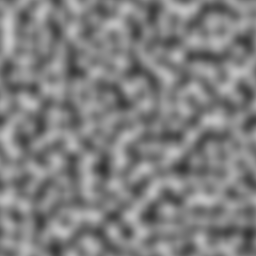
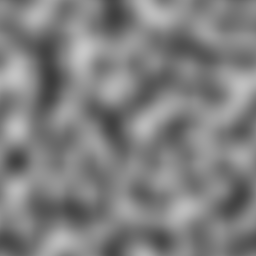
update

diff --git a/src/consts/noiseMarble.ts b/src/consts/noiseMarble.ts
@@ -1,8 +1,8 @@
 // https://polyhaven.com/
 const hdrUrl = "./static/hdrs/orbita.hdr";
 
-const heightMapUrl = "./static/noisemaps/1.jpeg";
-const displacementMapUrl = "./static/noisemaps/5.jpeg";
+// const heightMapUrl = "./static/noisemaps/1.jpeg";
+// const displacementMapUrl = "./static/noisemaps/5.jpeg";
 
 // http://kitfox.com/projects/perlinNoiseMaker/
 // const heightMapUrl = "./static/noisemaps/2.png";
@@ -13,5 +13,11 @@ const displacementMapUrl = "./static/noisemaps/5.jpeg";
 
 // const heightMapUrl = "./static/noisemaps/7.png";
 // const displacementMapUrl = "./static/noisemaps/5.jpeg";
+
+// const heightMapUrl = "./static/noisemaps/8.png";
+// const displacementMapUrl = "./static/noisemaps/5.jpeg";
+
+const heightMapUrl = "./static/noisemaps/9.png";
+const displacementMapUrl = "./static/noisemaps/5.jpeg";
 
 export { hdrUrl, heightMapUrl, displacementMapUrl };

diff --git a/src/scenes/noiseMarble.ts b/src/scenes/noiseMarble.ts
@@ -31,7 +31,7 @@ class NoiseMarble extends Base {
       smooth: 0.2,
       speed: 0.05,
       strength: 0.2,
-      slice: 1,
+      slice: 1.6,
     };
     const loader = new THREE.TextureLoader();
     const heightMap = loader.load(heightMapUrl);
